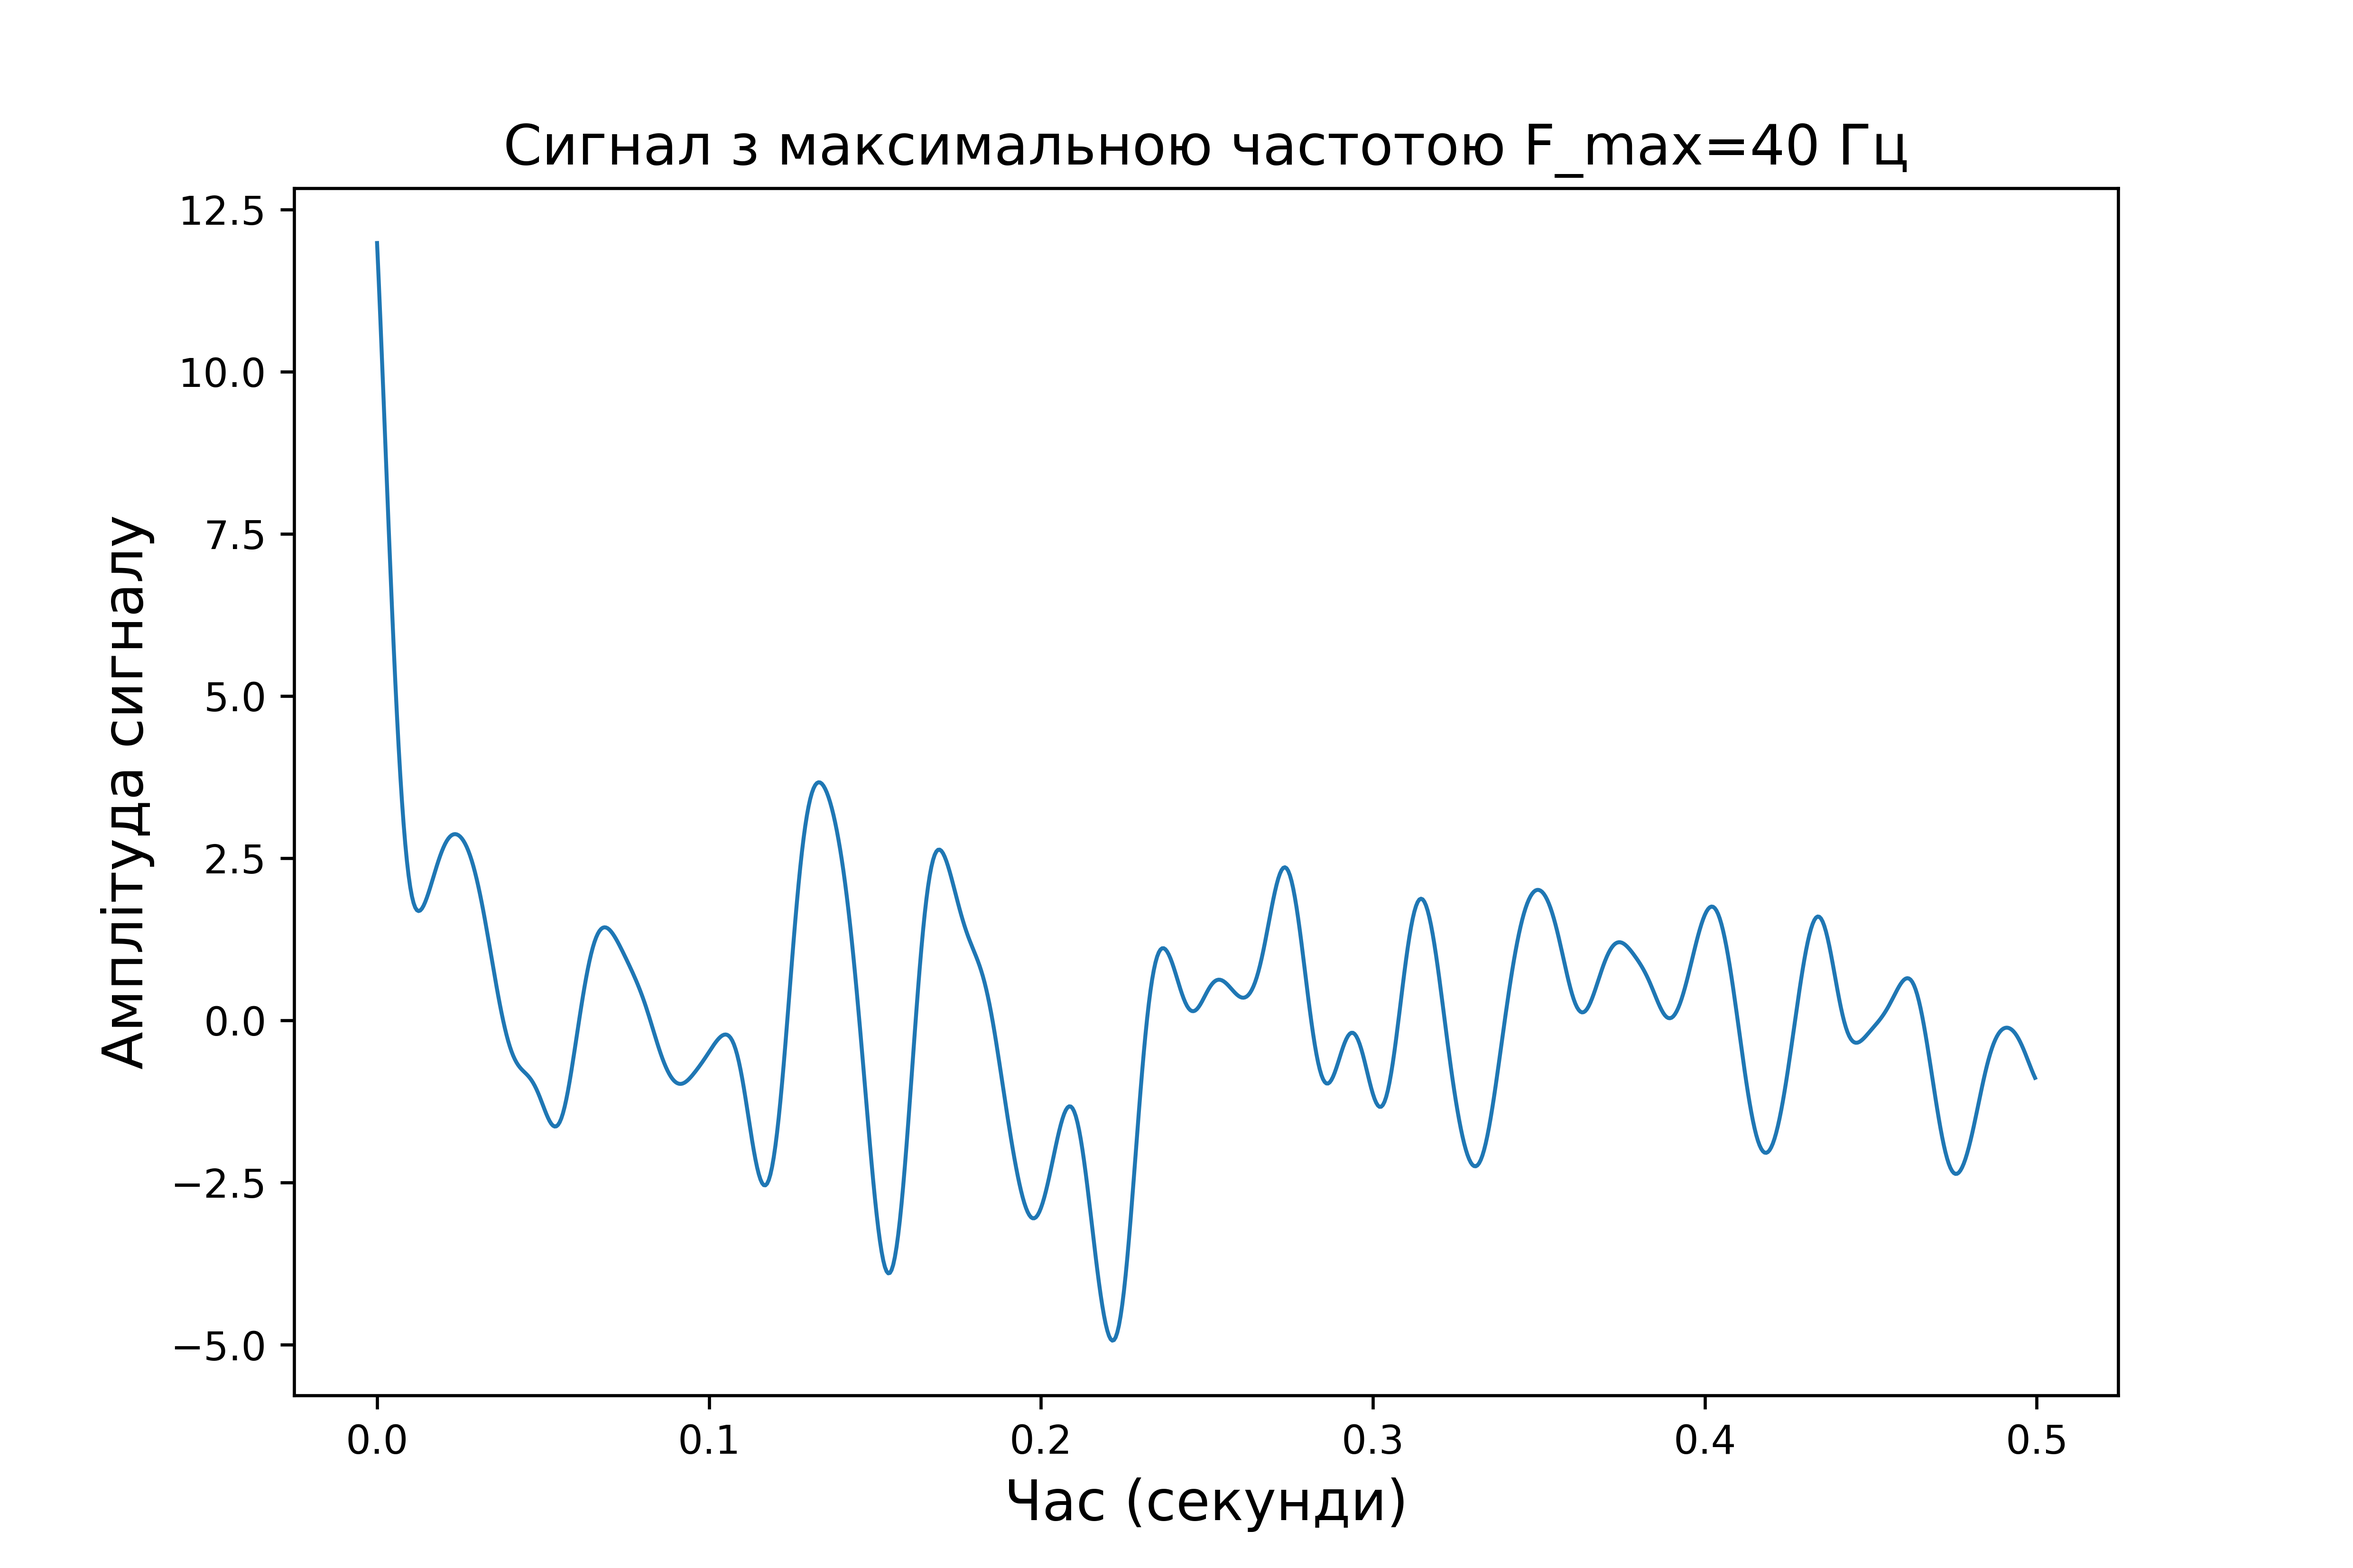
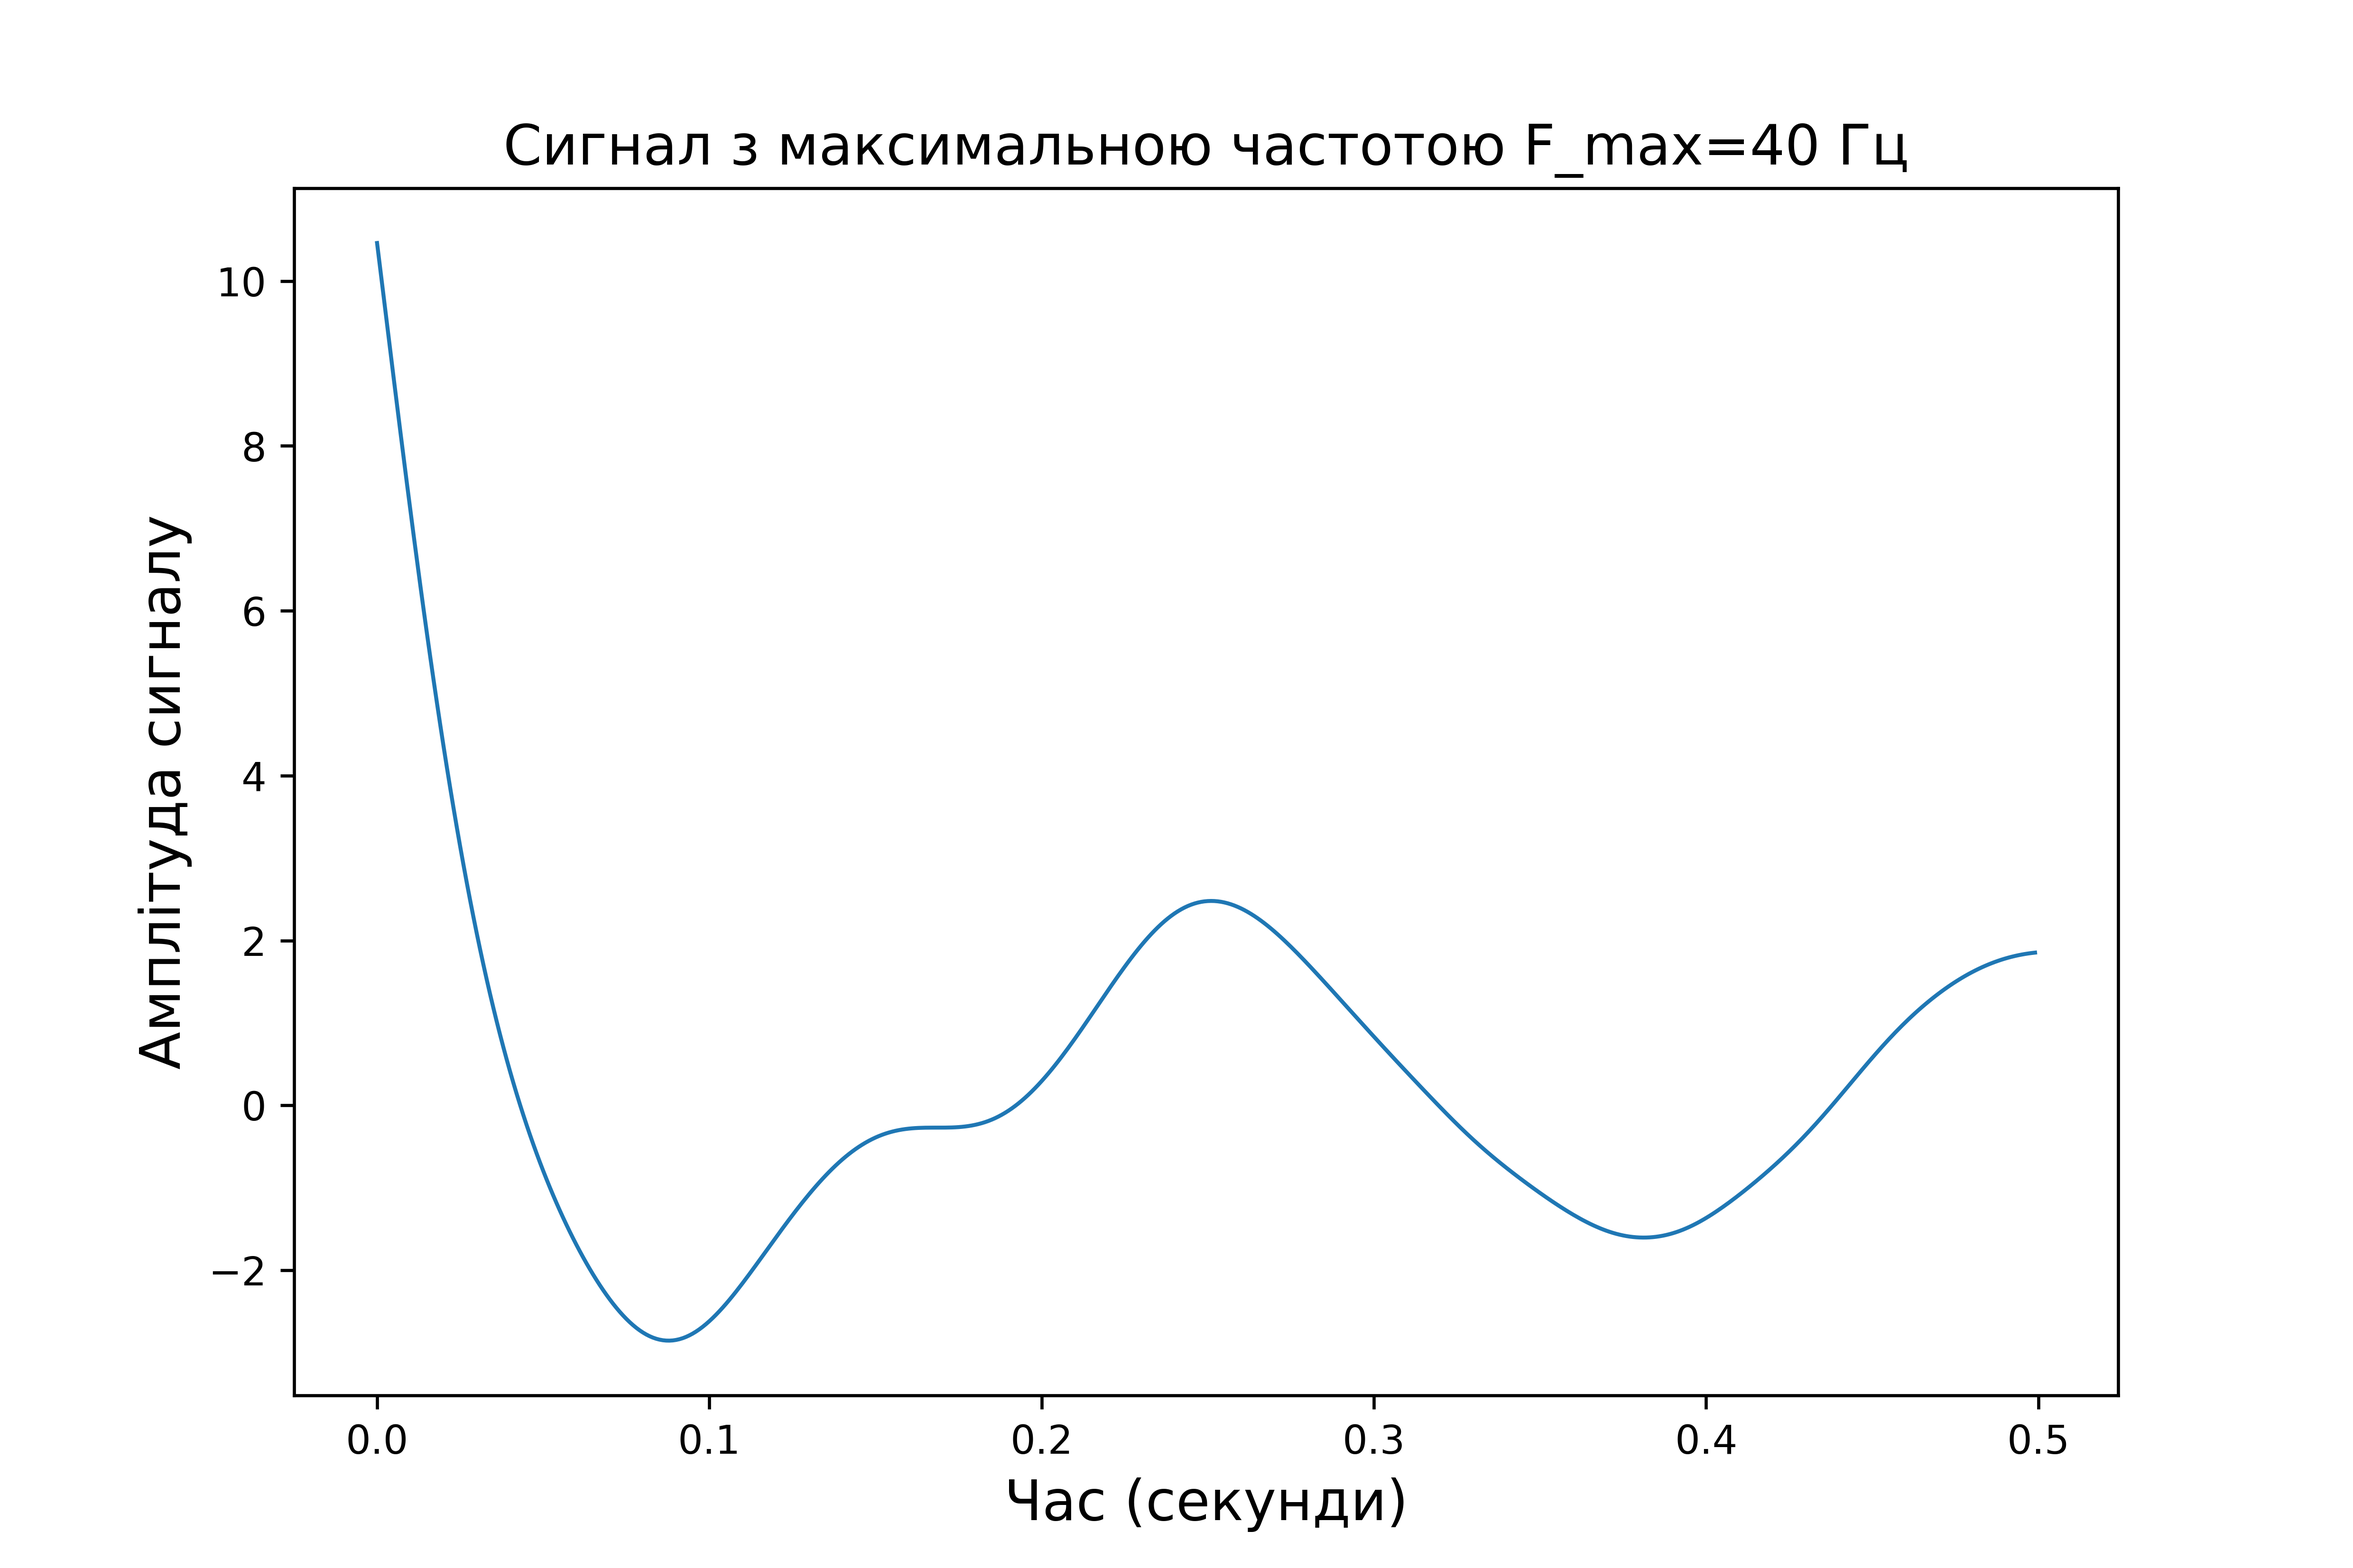
Signal processing, 1

diff --git a/SignalProcessing/SignalProcessing.py b/SignalProcessing/SignalProcessing.py
@@ -5,14 +5,14 @@ from scipy import fft
 
 mean = 0
 std_dev = 10
-n = 1000
+n = 500
 
 random_signal = np.random.normal(mean, std_dev, n)
 
-Fs = 2000
+Fs = 1000
 time = np.arange(n) / Fs
 
-F_max = 40
+F_max = 9
 w = F_max / (Fs / 2)
 
 sos = signal.butter(3, w, 'low', output='sos')
@@ -31,7 +31,7 @@ def plot_signal(x, y, title, xlabel, ylabel, filename):
 plot_signal(
     time,
     filtered_signal,
-    title="Сигнал з максимальною частотою F_max=40 Гц",
+    title="Сигнал з максимальною частотою F_max=9 Гц",
     xlabel="Час (секунди)",
     ylabel="Амплітуда сигналу",
     filename="filtered_signal"
@@ -44,7 +44,7 @@ spectrum_magnitude = np.abs(fft.fftshift(spectrum))
 freqs = fft.fftfreq(n, 1/Fs)
 freqs_shifted = fft.fftshift(freqs)
 
-# оскільки корисний сигнал після фільтрації містить частоти лише до 40 Гц,
+# оскільки корисний сигнал після фільтрації містить частоти лише до 9 Гц,
 # можна обмежити діапазон частот до +-200 Гц для кращого розуміння спектра
 # можливо це не треба було робити, але графік дуже вузький без обмеження
 
@@ -57,7 +57,7 @@ spectrum_limited = spectrum_magnitude[mask]
 plot_signal(
     freqs_limited,
     spectrum_limited,
-    title="Спектр сигналу з максимальною частотою F_max = 40 Гц",
+    title="Спектр сигналу з максимальною частотою F_max = 9 Гц",
     xlabel="Частота (Гц)",
     ylabel="Амплітуда спектру",
     filename="signal_spectrum"
